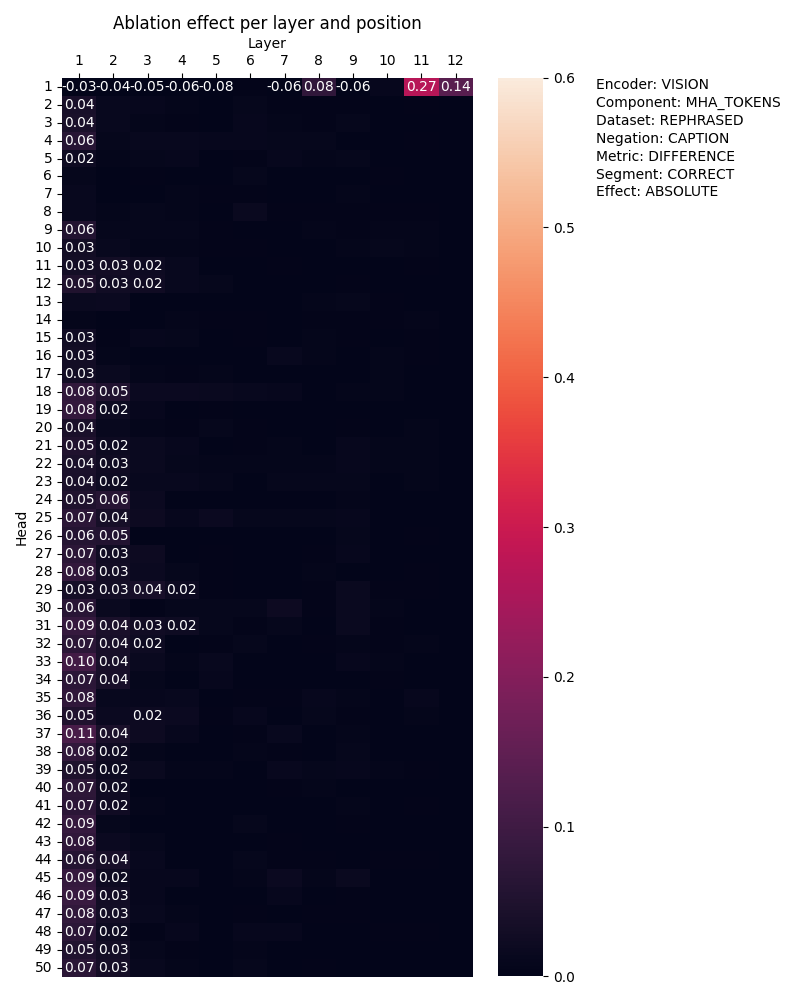
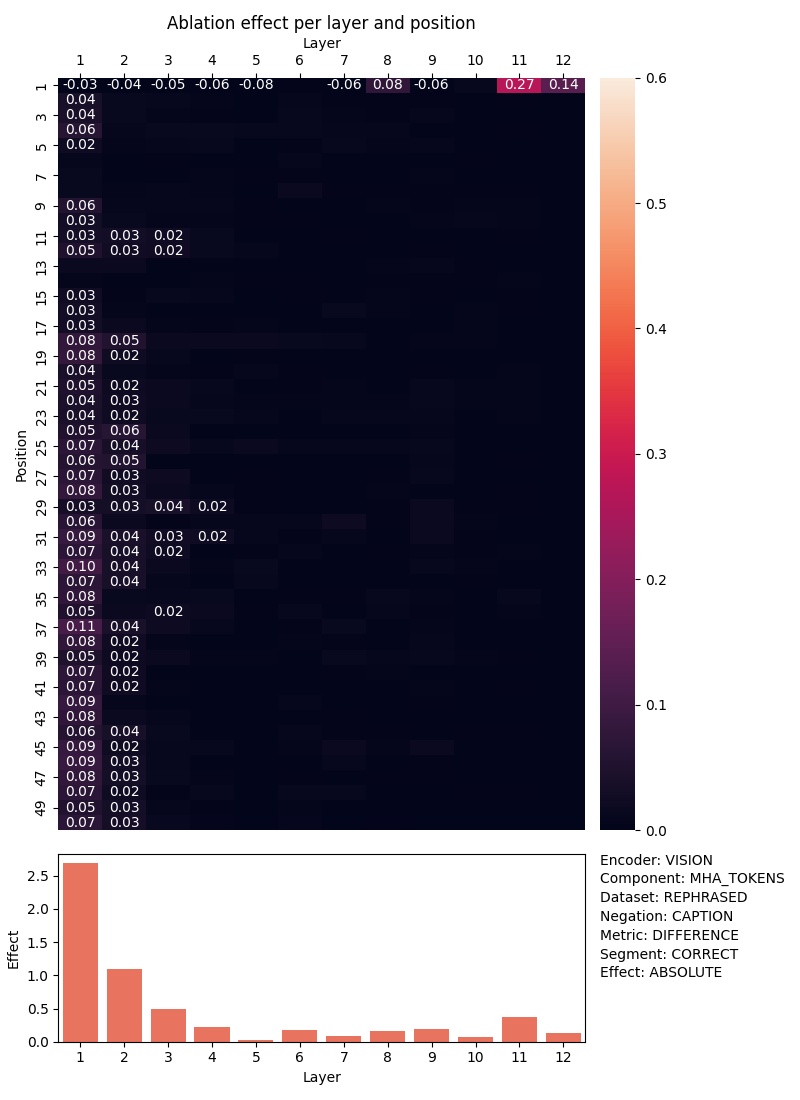
Update token plots

diff --git a/src/ablation/analyse_ablation_results.py b/src/ablation/analyse_ablation_results.py
@@ -13,9 +13,9 @@ CONFIG = {
     'encoder': 'vision',    # vision/text
     'component': 'mha_tokens',     # mha/mlp
     'dataset': 'rephrased', # standard/rephrased
-    'negation': 'foil',  # foil/caption
+    'negation': 'caption',  # foil/caption
     'metric': 'difference', # absolute/difference
-    'segment': 'incorrect',  # correct/ambiguous/incorrect
+    'segment': 'correct',  # correct/ambiguous/incorrect
     'effect': 'absolute'    # absolute/relative
 }
 
@@ -35,22 +35,31 @@ if 'token' in CONFIG['component']:
     effect_df = pd.DataFrame(effects).transpose()
     effect_df_annot = effect_df.map(lambda x: f'{x:.2f}' if x >= 0.02 or x <=-0.02 else '')
 
-    fig, ax = plt.subplots(1, 1, figsize=(8, 10))
+    effect_sum_df = pd.DataFrame(enumerate(effect_df.sum()), columns=['Layer', 'Effect'])
+    effect_sum_df['Layer'] += 1
+    effect_sum_df
 
-    x_tick_labels = [i + 1 for i in range(effect_df.shape[1])]
-    y_tick_labels = [i + 1 for i in range(effect_df.shape[0])]
+    fig, ax = plt.subplots(2, 2, figsize=(8, 11), gridspec_kw={'height_ratios': [4, 1],
+                                                               'width_ratios': [15, 1]})
 
-    # effect_hm = sns.heatmap(effect_df, annot=True, fmt='', ax=ax)
-    effect_hm = sns.heatmap(effect_df, annot=effect_df_annot, fmt='', vmin=0, vmax=0.6, ax=ax)
-    effect_hm.set(xlabel='Layer', ylabel='Head', xticklabels=x_tick_labels, yticklabels=y_tick_labels,
+    x_tick_labels = list(range(1, effect_df.shape[1] + 1))
+    y_tick_labels = list(range(1, effect_df.shape[0], 2))
+    x_ticks = [i - 1 for i in x_tick_labels]
+    y_ticks = [i - 0.5 for i in y_tick_labels]
+
+    effect_hm = sns.heatmap(effect_df, annot=effect_df_annot, fmt='', vmin=0, vmax=0.6, ax=ax[0, 0], cbar_ax=ax[0,1])
+    effect_hm.set(xlabel='Layer', ylabel='Position', yticks=y_ticks,
+                  xticklabels=x_tick_labels, yticklabels=y_tick_labels,
                   title='Ablation effect per layer and position')
     effect_hm.xaxis.tick_top()
     effect_hm.xaxis.set_label_position('top')
 
     for idx, (key, value) in enumerate(CONFIG.items()):
-        ax.text(1.3, 1 - idx * 0.02, f'{str(key).capitalize()}: {str(value).upper()}',
-                transform=ax.transAxes, verticalalignment='top')
+        ax[1,1].text(0, 1 - idx * 0.1, f'{str(key).capitalize()}: {str(value).upper()}',
+                transform=ax[1,1].transAxes, verticalalignment='top')
 
+    effect_sum_hm = sns.barplot(data=effect_sum_df, x='Layer', y='Effect', color='tomato', ax=ax[1,0])
+    ax[1,1].axis('off')
     plt.tight_layout()
 
     plot_filepath = generate_ablation_chart_filepath(CONFIG)
